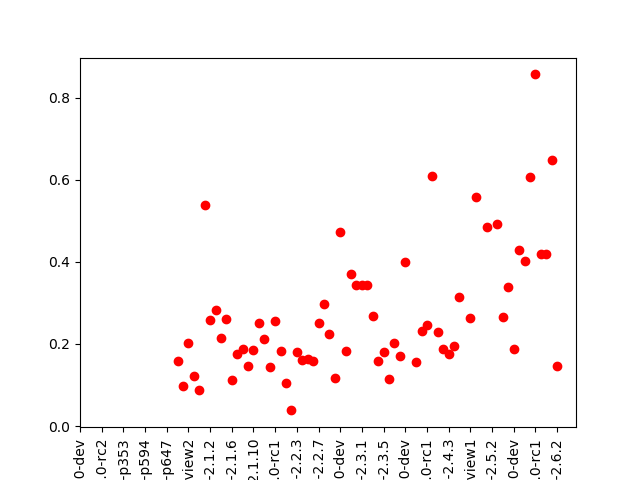
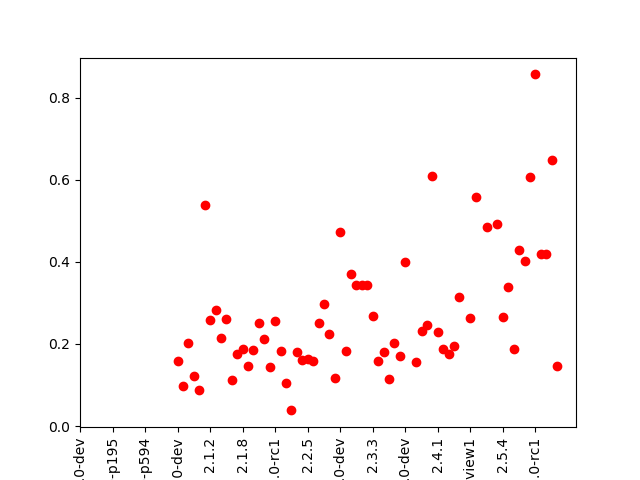
yes

Changed region(s): [[0.0938, 0.9062, 0.875, 1.0]]

diff --git a/stats.py b/stats.py
@@ -46,7 +46,7 @@ for i in ['results.csv', 'jruby_results_flags.csv']:
 				if row[0] == "cruby":
 					crubyMeans.append(np.mean(times))
 					crubyStdDevs.append(np.std(times))
-					crubyVersions.append(row[1])
+					crubyVersions.append(row[1][5:])
 					crubyVersionsLine.append(np.mean(times))
 					crubyVersionsLineX.append(ind)
 				else:
@@ -58,7 +58,7 @@ for i in ['results.csv', 'jruby_results_flags.csv']:
 				if row[0] == "cruby":
 					crubyMeans.append(NOVERSION)
 					crubyStdDevs.append(NOVERSION)
-					crubyVersions.append(row[1])
+					crubyVersions.append(row[1][5:])
 				else:
 					jrubyMeans.append(NOVERSION)
 					jrubyStdDevs.append(NOVERSION)
@@ -97,10 +97,11 @@ for i in crubyVersionsLineX :
 
 #When to reach triple performance?
 
-goalVersion = (TRIPLEPERFO-b)/m
+#goalVersion = (TRIPLEPERFO-b)/m
 goalVersion = (2*b)/m
+print("formula is y={}x + {}".format(m, b))
 print("We wil reach 3x3 goal at version {}.".format(goalVersion))
-print("This is in {} versions.".format(goalVersion-len(crubyLine)))
+print("This is in {} versions.".format(goalVersion-crubyVersionsLineX[len(crubyVersionsLineX)-1]))
 print()
 
 
@@ -126,16 +127,23 @@ for i in range(0, 10) :
 
 
 #All manipulations done
-CST=4
+CST=6
 
 crubyX = [int(i)*CST for i in np.arange(0, len(crubyVersions)/CST)]
-crubyVersionsPlot = itemgetter(*crubyX)(crubyVersions)
+crubyVersionsPlot = (itemgetter(*crubyX)(crubyVersions))
 
-plt.plot(crubyMeans, 'ro')
-plt.plot(crubyVersionsLineX, crubyLine)
-plt.xticks(rotation=90)
+plt.figure(figsize=(10, 7.6))
+plt.plot(crubyMeans, 'ro', markersize=12)
+plt.plot(crubyVersionsLineX, crubyLine, linewidth=6)
+plt.yticks(fontsize=17)
+plt.xticks(rotation=45, ha='right', fontsize=17)
 plt.xticks(crubyX, crubyVersionsPlot)
+plt.xlabel("cRuby Versions", fontsize=24)
+plt.ylabel("Measured Result (fps)", fontsize=24)
+#plt.title()
+plt.tight_layout()
 plt.savefig("figRubyMeans.png")
+plt.show()
 plt.clf()
 
 plt.plot(crubyStdDevs, 'ro')
